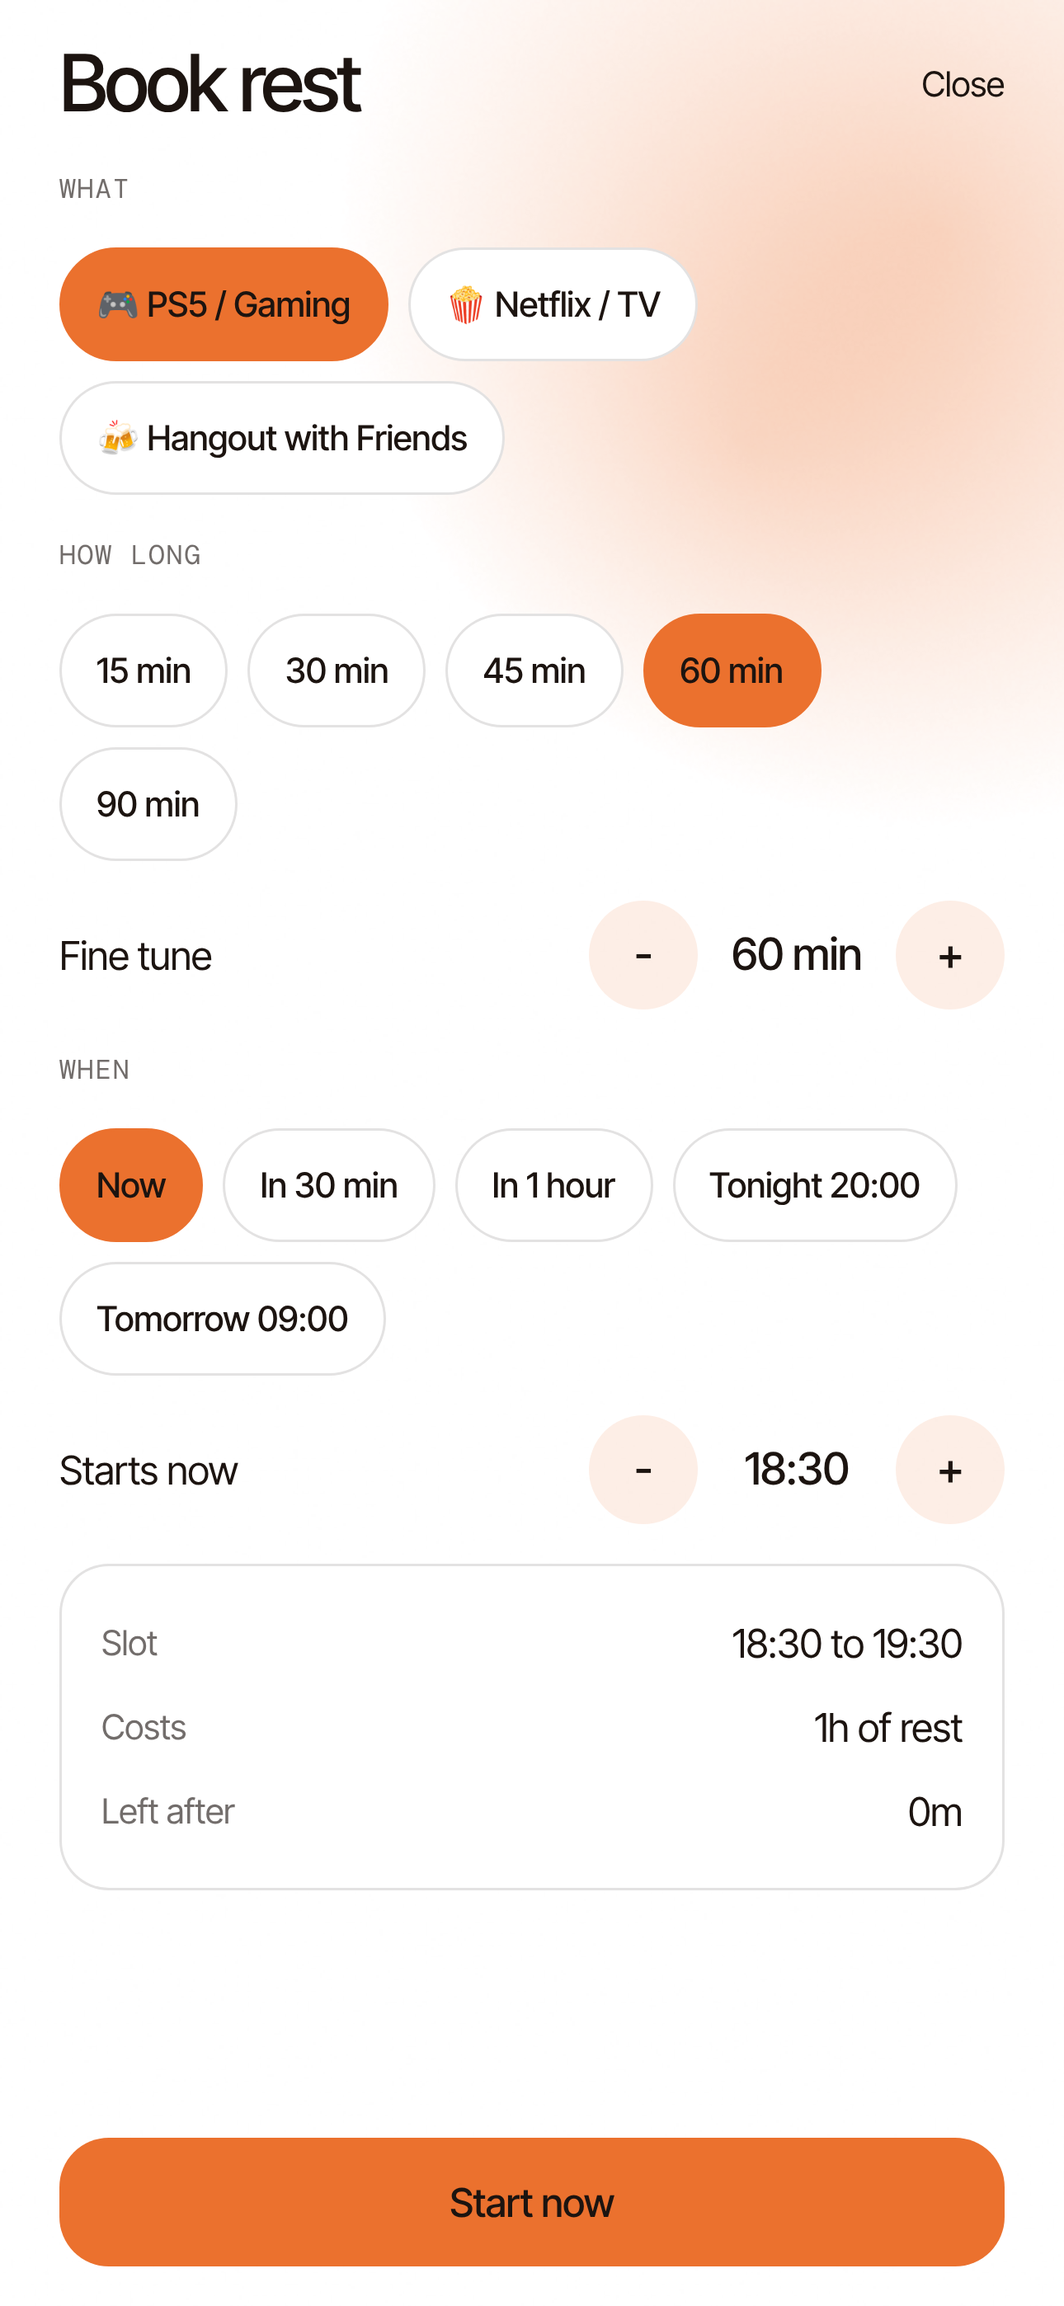
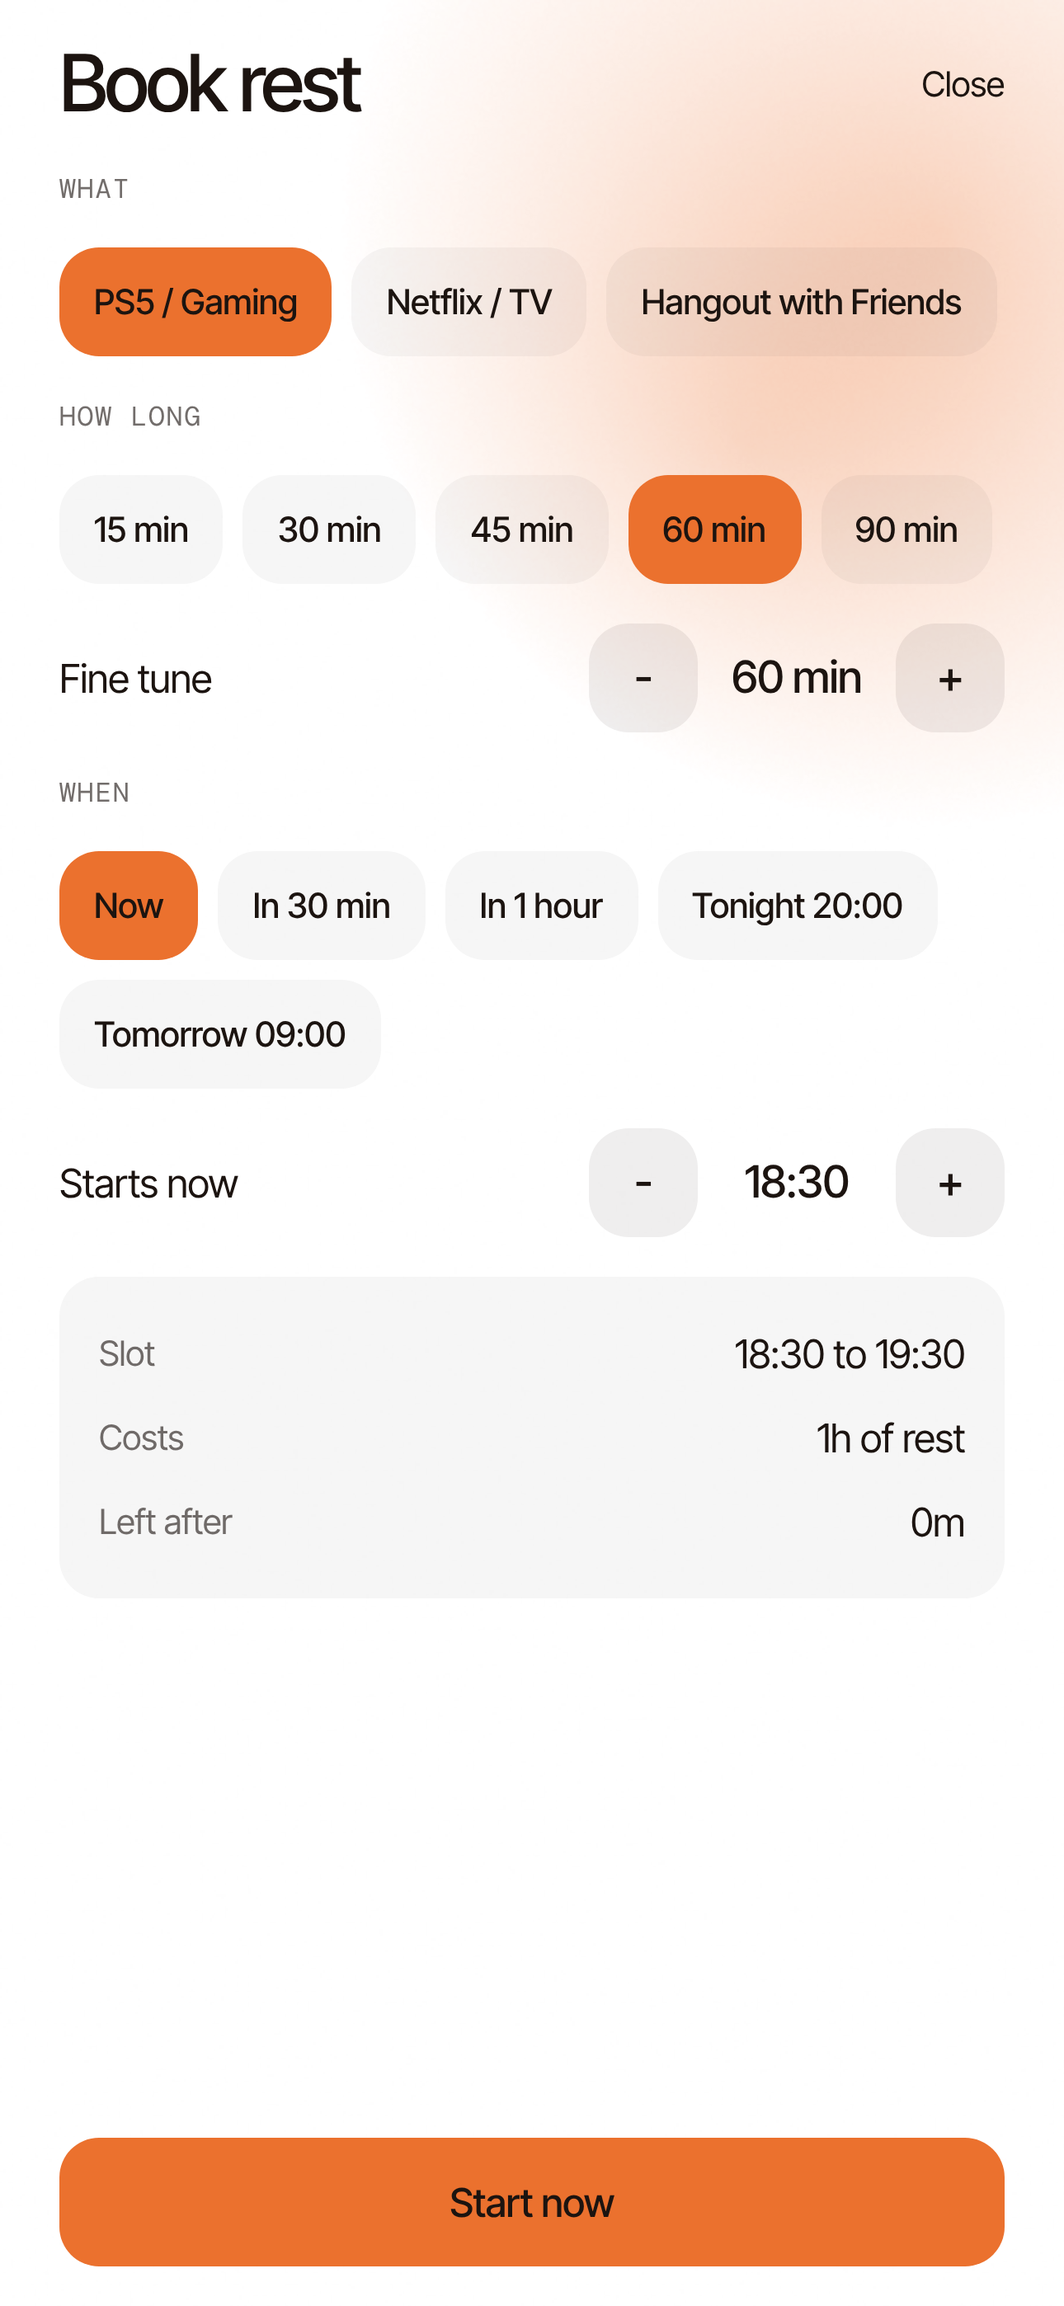
Strip the interface down to one shape, no lines, no emoji
Cards, chips, fields and buttons share a single 16 radius. Borders and divider
lines are gone: cards and chips are ink at 4%, selected states are a faint
orange fill. Activity emoji are no longer shown or asked for; moments use an
orange dot, and the new-moment card an orange orb. Tests and store screenshots
follow.

Claude-Session: https://claude.ai/code/session_019ffQuZEKGA3GPgQN2MLQP2

diff --git a/e2e/smoke.spec.ts b/e2e/smoke.spec.ts
@@ -13,11 +13,11 @@ test('onboarding needs at least two activities of each kind', async ({ page }) =
   await tap(page, 'Begin');
   await tap(page, 'Continue');
   await tap(page, 'Continue'); // now on the work step with three picked
-  await tap(page, '💻 Deep Work');
-  await tap(page, '🏋 Workout');
+  await tap(page, 'Deep Work');
+  await tap(page, 'Workout');
   await tap(page, 'Continue'); // only one left: the step must not advance
   await expect(page.getByText('What counts as work?')).toBeVisible();
-  await tap(page, '🚀 Side Project');
+  await tap(page, 'Side Project');
   await tap(page, 'Continue');
   await expect(page.getByText('How do you like to rest?')).toBeVisible();
 });
@@ -142,7 +142,7 @@ test('a counter tap can be undone right away', async ({ page }) => {
   await tap(page, 'Begin');
   await tap(page, 'Continue');
   await tap(page, 'Continue');
-  await tap(page, '🍳 Cook / Chores');
+  await tap(page, 'Cook / Chores');
   for (let i = 0; i < 3; i++) await tap(page, 'Continue');
   await tap(page, 'Start');
   await tap(page, '+1');
@@ -175,7 +175,7 @@ test('history lets you fix an entry and the bank follows', async ({ page }) => {
   await logDeepWork(page, 120); // 60 saved
   await tap(page, 'History');
   await expect(page.getByText('Work 2h, rest 0m')).toBeVisible();
-  for (let i = 0; i < 6; i++) await page.getByLabel('Decrease 💻 Deep Work').click();
+  for (let i = 0; i < 6; i++) await page.getByLabel('Decrease Deep Work').click();
   await expect(page.getByText('Work 1h 30m, rest 0m')).toBeVisible();
   await tap(page, 'Done');
   await expect(page.getByText('Today earned 45m, spent 0m.')).toBeVisible();
@@ -320,16 +320,15 @@ test('onboarding lets you add your own activity and remove it again', async ({ p
   await tap(page, 'Continue'); // work step
   await page.getByLabel('Your own work activity').fill('Writing');
   await page.getByRole('button', { name: 'Add', exact: true }).click();
-  await expect(page.getByText('🔥 Writing', { exact: true })).toBeVisible();
+  await expect(page.getByText('Writing', { exact: true })).toBeVisible();
   await expect(page.getByText('4 selected. Tap a custom one to remove it.')).toBeVisible();
   await expect(page.getByLabel('Your own work activity')).toHaveValue('');
-  await tap(page, '🔥 Writing');
-  await expect(page.getByText('🔥 Writing', { exact: true })).toHaveCount(0);
+  await tap(page, 'Writing');
+  await expect(page.getByText('Writing', { exact: true })).toHaveCount(0);
   await tap(page, 'Continue'); // rest step
   await page.getByLabel('Your own way to rest').fill('Bath');
-  await page.getByLabel('Emoji').fill('🛁');
   await page.getByRole('button', { name: 'Add', exact: true }).click();
-  await expect(page.getByText('🛁 Bath', { exact: true })).toBeVisible();
+  await expect(page.getByText('Bath', { exact: true })).toBeVisible();
 });
 
 test('activities can be added in Settings, and a duplicate name is refused', async ({ page }) => {

diff --git a/src/app/history.tsx b/src/app/history.tsx
@@ -50,12 +50,12 @@ export default function History() {
               accessible
               accessibilityLabel={m.earned ? `${m.title}. ${m.line}` : 'Not yet'}
             >
-              <AppText variant="display" color={m.earned ? undefined : colors.border} style={styles.momentEmoji}>
-                {m.earned ? m.emoji : '·'}
-              </AppText>
-              <AppText variant="small" numberOfLines={2} style={styles.momentTitle}>
-                {m.earned ? m.title : 'Not yet'}
-              </AppText>
+              <View style={[styles.dot, m.earned ? styles.dotOn : null]} />
+              {m.earned ? (
+                <AppText variant="small" color={colors.text} numberOfLines={2} style={styles.momentTitle}>
+                  {m.title}
+                </AppText>
+              ) : null}
             </View>
           ))}
         </View>
@@ -124,7 +124,7 @@ function DayCard({
       {day.tomorrowFirst ? <AppText variant="small">Note: {day.tomorrowFirst}</AppText> : null}
       {day.entries.map((e) => {
         const counter = e.habit.valueType === 'counter';
-        const label = `${e.habit.emoji} ${e.habit.name}`;
+        const label = e.habit.name;
         return (
           <Stepper
             key={`${e.kind}-${e.habit.id}`}
@@ -141,7 +141,7 @@ function DayCard({
           {addable.map((h) => (
             <Chip
               key={h.id}
-              label={`${h.emoji} ${h.name}`}
+              label={`${h.name}`}
               tint={h.type === 'grind' ? colors.grind : colors.glow}
               selected={false}
               onPress={() => {
@@ -159,8 +159,9 @@ function DayCard({
 const styles = StyleSheet.create({
   day: { gap: space.md },
   moments: { flexDirection: 'row', flexWrap: 'wrap', gap: space.sm, marginVertical: space.sm },
-  moment: { width: '31%', alignItems: 'center', gap: 2, paddingVertical: space.sm, paddingHorizontal: 4, borderRadius: radius.sm, backgroundColor: colors.surfaceHigh },
-  locked: { backgroundColor: 'transparent', borderWidth: 1, borderColor: colors.border, borderStyle: 'dashed' },
-  momentEmoji: { fontSize: 30, lineHeight: 38, letterSpacing: 0 },
-  momentTitle: { textAlign: 'center' },
+  moment: { width: '31%', minHeight: 72, alignItems: 'flex-start', gap: space.sm, padding: space.md, borderRadius: radius.sm, backgroundColor: colors.accentSoft },
+  locked: { backgroundColor: colors.surface },
+  dot: { width: 14, height: 14, borderRadius: 7, backgroundColor: colors.surfaceHigh },
+  dotOn: { backgroundColor: colors.grind },
+  momentTitle: { textAlign: 'left' },
 });

diff --git a/src/ui/AddActivity.tsx b/src/ui/AddActivity.tsx
@@ -9,27 +9,17 @@ interface Props {
   onAdd: (name: string, emoji: string) => boolean | void;
 }
 
-// One emoji box, one name box, one Add button. Used when picking activities at the start and in Settings.
+// One name box, one Add button. Used when picking activities at the start and in Settings.
 export function AddActivity({ placeholder, onAdd }: Props) {
   const [name, setName] = useState('');
-  const [emoji, setEmoji] = useState('');
   const ok = name.trim().length > 0;
   const submit = () => {
     if (!ok) return;
-    if (onAdd(name.trim(), emoji.trim()) === false) return;
+    if (onAdd(name.trim(), '') === false) return;
     setName('');
-    setEmoji('');
   };
   return (
     <View style={styles.row}>
-      <TextInput
-        value={emoji}
-        onChangeText={(t) => setEmoji(Array.from(t).slice(0, 2).join(''))}
-        placeholder="🙂"
-        placeholderTextColor={colors.muted}
-        style={[styles.input, styles.emoji]}
-        accessibilityLabel="Emoji"
-      />
       <TextInput
         value={name}
         onChangeText={setName}
@@ -55,14 +45,11 @@ const styles = StyleSheet.create({
   input: {
     height: 48,
     borderRadius: radius.sm,
-    backgroundColor: colors.surface,
-    borderWidth: 1,
-    borderColor: colors.border,
+    backgroundColor: colors.surfaceHigh,
     color: colors.text,
     paddingHorizontal: 12,
     fontSize: 16,
   },
-  emoji: { width: 56, textAlign: 'center' },
   name: { flex: 1, minWidth: 0 },
   add: { height: 48, paddingHorizontal: 16, borderRadius: radius.sm, backgroundColor: colors.grind, justifyContent: 'center' },
   off: { opacity: 0.35 },

diff --git a/src/ui/onboarding/ActivitiesStep.tsx b/src/ui/onboarding/ActivitiesStep.tsx
@@ -10,7 +10,6 @@ interface Props {
   intro: string;
   catalog: CatalogItem[];
   tint: string;
-  fallbackEmoji: string; // for a custom activity added without one
   addPlaceholder: string;
   chosen: string[];
   custom: CustomActivity[];
@@ -19,7 +18,7 @@ interface Props {
 }
 
 // The same step for work and for rest: pick from the catalogue, add your own, tap an own one to remove it.
-export function ActivitiesStep({ title, intro, catalog, tint, fallbackEmoji, addPlaceholder, chosen, custom, onChosen, onCustom }: Props) {
+export function ActivitiesStep({ title, intro, catalog, tint, addPlaceholder, chosen, custom, onChosen, onCustom }: Props) {
   const toggle = (id: string) => onChosen(chosen.includes(id) ? chosen.filter((x) => x !== id) : [...chosen, id]);
   return (
     <View style={styles.block}>
@@ -27,12 +26,12 @@ export function ActivitiesStep({ title, intro, catalog, tint, fallbackEmoji, add
       <AppText variant="small">{intro}</AppText>
       <Row>
         {catalog.map((i) => (
-          <Chip key={i.id} label={`${i.emoji} ${i.name}`} tint={tint} selected={chosen.includes(i.id)} onPress={() => toggle(i.id)} />
+          <Chip key={i.id} label={`${i.name}`} tint={tint} selected={chosen.includes(i.id)} onPress={() => toggle(i.id)} />
         ))}
         {custom.map((c, idx) => (
           <Chip
             key={`custom${idx}`}
-            label={`${c.emoji || fallbackEmoji} ${c.name}`}
+            label={`${c.name}`}
             tint={tint}
             selected
             onPress={() => onCustom(custom.filter((_, k) => k !== idx))}

diff --git a/src/ui/today/WeekCard.tsx b/src/ui/today/WeekCard.tsx
@@ -1,6 +1,6 @@
 import { StyleSheet, View } from 'react-native';
 import { RestPace, WeekDay } from '@/core';
-import { colors, fonts, radius, space } from '@/theme';
+import { colors, fonts, space } from '@/theme';
 import { Card } from '@/ui/Card';
 import { fmtMins } from '@/ui/format';
 import { AppText } from '@/ui/Text';
@@ -57,11 +57,11 @@ export function WeekCard({ week, streak, goal, doneSlots, pace, onHistory }: Pro
 const styles = StyleSheet.create({
   bars: { flexDirection: 'row', justifyContent: 'space-between', gap: 6, height: 84, marginBottom: space.sm },
   col: { flex: 1, alignItems: 'center', gap: 4 },
-  track: { flex: 1, width: '100%', justifyContent: 'flex-end', backgroundColor: colors.surfaceHigh, borderRadius: radius.sm, overflow: 'hidden', borderWidth: 1, borderColor: 'transparent' },
-  trackToday: { borderColor: colors.muted },
-  trackFuture: { backgroundColor: 'transparent', borderColor: colors.border, borderStyle: 'dashed' },
+  track: { flex: 1, width: '100%', justifyContent: 'flex-end', backgroundColor: colors.surfaceHigh, borderRadius: 8, overflow: 'hidden' },
+  trackToday: { backgroundColor: colors.accentSoft },
+  trackFuture: { backgroundColor: colors.surface },
   bar: { width: '100%', backgroundColor: colors.good },
-  empty: { backgroundColor: colors.border },
+  empty: { backgroundColor: colors.surfaceHigh },
   todayLabel: { fontFamily: fonts.medium },
   history: { alignSelf: 'flex-start', marginTop: space.sm },
 });

diff --git a/src/app/focus.tsx b/src/app/focus.tsx
@@ -77,7 +77,7 @@ export default function Focus() {
           <AppText variant="label">Rest earned</AppText>
           <Prize earned={result.earned} seed={result.minutes} />
           <AppText variant="small">
-            {habit.emoji} {habit.name}, {fmtMins(result.minutes)}
+            {habit.name}, {fmtMins(result.minutes)}
           </AppText>
         </Card>
       </Screen>
@@ -120,7 +120,7 @@ export default function Focus() {
         <ModalHeader title="Focus" onClose={() => router.back()} />
         <View style={styles.center}>
           <AppText variant="small">
-            {habit.emoji} {habit.name}
+            {habit.name}
           </AppText>
           <AppText variant="display" style={styles.timer}>
             {fmtTimer(elapsedSec)}
@@ -164,13 +164,13 @@ export default function Focus() {
       <ModalHeader title="Focus" />
       <Card>
         <AppText variant="heading">
-          {habit.emoji} {habit.name}
+          {habit.name}
         </AppText>
         <AppText variant="small">Every hour here earns {Math.round(rate * 60)} min of rest.</AppText>
       </Card>
       {otherRunning ? (
         <AppText variant="small" color={colors.grindText}>
-          {otherRunning.emoji} {otherRunning.name} is still running. Finish it first.
+          {otherRunning.name} is still running. Finish it first.
         </AppText>
       ) : null}
       <AppText variant="label">Goal</AppText>

diff --git a/src/ui/Card.tsx b/src/ui/Card.tsx
@@ -7,12 +7,12 @@ interface Props {
   onPress?: () => void;
   hero?: boolean; // the deep orange variant, for the one thing that matters on a screen
   selected?: boolean;
-  tint?: string; // border color when selected
+  tint?: string; // unused; kept so callers need no change
   style?: ViewStyle;
 }
 
-export function Card({ children, onPress, hero, selected, tint = colors.text, style }: Props) {
-  const box = [styles.card, hero ? styles.hero : null, selected ? { borderColor: tint } : null, style];
+export function Card({ children, onPress, hero, selected, style }: Props) {
+  const box = [styles.card, hero ? styles.hero : null, selected ? styles.selected : null, style];
   const inner = hero ? (
     <>
       <Image source={require('../../assets/images/hero.png')} resizeMode="stretch" style={styles.heroImage} />
@@ -34,11 +34,10 @@ const styles = StyleSheet.create({
     backgroundColor: colors.surface,
     borderRadius: radius.md,
     padding: space.lg,
-    borderWidth: 1,
-    borderColor: colors.border,
     gap: space.xs,
   },
-  hero: { backgroundColor: '#d12d20', borderColor: 'transparent', overflow: 'hidden' },
+  hero: { backgroundColor: '#d12d20', overflow: 'hidden' },
+  selected: { backgroundColor: colors.accentSoft },
   heroImage: { position: 'absolute', top: 0, left: 0, width: '100%', height: '100%' },
   pressed: { opacity: 0.85 },
 });

diff --git a/src/ui/NewMoment.tsx b/src/ui/NewMoment.tsx
@@ -25,23 +25,21 @@ export function NewMoment({ moment, more, onSeen }: Props) {
   return (
     <Card style={styles.card}>
       <View style={styles.row}>
-        <Animated.Text style={[styles.emoji, { transform: [{ scale: pop }] }]} accessibilityElementsHidden>
-          {moment.emoji}
-        </Animated.Text>
+        <Animated.View style={[styles.orb, { transform: [{ scale: pop }] }]} accessibilityElementsHidden />
         <View style={styles.text}>
           <AppText variant="label">New moment{more > 0 ? `, ${more} more waiting` : ''}</AppText>
           <AppText variant="heading">{moment.title}</AppText>
           <AppText variant="small">{moment.line}</AppText>
         </View>
       </View>
-      <Button small kind="secondary" title="Nice" onPress={onSeen} />
+      <Button small title="Nice" onPress={onSeen} />
     </Card>
   );
 }
 
 const styles = StyleSheet.create({
-  card: { borderColor: colors.grind, gap: space.md },
+  card: { backgroundColor: colors.accentSoft, gap: space.md },
   row: { flexDirection: 'row', alignItems: 'center', gap: space.lg },
-  emoji: { fontSize: 44 },
+  orb: { width: 44, height: 44, borderRadius: 22, backgroundColor: colors.grind },
   text: { flex: 1, gap: 2 },
 });

diff --git a/src/theme.ts b/src/theme.ts
@@ -3,8 +3,9 @@
 // scripts/make-images.py draws the icon, the orb, the hero gradient and the status bar fade from these colors; run it after changing them.
 export const colors = {
   bg: '#ffffff',
-  surface: '#ffffff', // cards: white with a thin ink line
-  surfaceHigh: 'rgba(235, 113, 46, 0.12)', // orange, faint
+  surface: 'rgba(28, 20, 16, 0.04)', // cards and chips: ink, barely there. No lines anywhere.
+  surfaceHigh: 'rgba(28, 20, 16, 0.07)', // what sits on a card
+  accentSoft: 'rgba(235, 113, 46, 0.12)', // orange, faint: selected and highlighted
   border: 'rgba(28, 20, 16, 0.12)',
   text: '#1c1410', // ink
   muted: 'rgba(28, 20, 16, 0.62)',
@@ -21,7 +22,8 @@ export const colors = {
   heroButtonText: '#d12d20',
 } as const;
 
-export const radius = { sm: 10, md: 20, pill: 9999 } as const;
+// One shape for everything: cards, buttons, chips, fields.
+export const radius = { sm: 16, md: 16, pill: 16 } as const;
 export const space = { xs: 4, sm: 8, md: 12, lg: 16, xl: 24, xxl: 32 } as const;
 
 // Type: Inter Tight (a tight grotesque) for everything, light for the big figures, and DM Mono for the small labels.

diff --git a/src/app/index.tsx b/src/app/index.tsx
@@ -161,7 +161,7 @@ export default function Today() {
         <Card onPress={() => router.push({ pathname: '/slot/[id]', params: { id: next.id } })} selected tint={colors.glow}>
           <AppText variant="label">{next.state === 'active' ? 'Resting now' : 'Next rest'}</AppText>
           <AppText variant="heading">
-            {nextHabit.emoji} {nextHabit.name}
+            {nextHabit.name}
           </AppText>
           <AppText variant="small">
             {dayWord(new Date(next.startsAt), now)} {fmtClock(new Date(next.startsAt))}, {next.plannedMins} min
@@ -173,7 +173,7 @@ export default function Today() {
         <Card onPress={() => router.push({ pathname: '/focus', params: { habitId: focus.habitId } })} selected tint={colors.grind}>
           <AppText variant="label">Focus running</AppText>
           <AppText variant="heading">
-            {focusHabit.emoji} {focusHabit.name}
+            {focusHabit.name}
           </AppText>
           <AppText variant="small">Tap to open the timer.</AppText>
         </Card>

diff --git a/src/app/log-rest.tsx b/src/app/log-rest.tsx
@@ -52,7 +52,7 @@ export default function LogRest() {
         <ModalHeader title="Logged" onClose={() => router.back()} />
         <Card>
           <AppText variant="heading">
-            {h?.emoji} {h?.name}, {fmtMins(done.mins)}
+            {h?.name}, {fmtMins(done.mins)}
           </AppText>
           <AppText variant="body">{fmtMins(done.charged)} came out of your bank.</AppText>
           <AppText variant="small">Next time you can book it first. Either way, it is now on record.</AppText>
@@ -84,7 +84,7 @@ export default function LogRest() {
       <AppText variant="label">What</AppText>
       <Row>
         {rest.map((h) => (
-          <Chip key={h.id} label={`${h.emoji} ${h.name}`} tint={colors.glow} selected={h.id === habitId} onPress={() => setHabitId(h.id)} />
+          <Chip key={h.id} label={`${h.name}`} tint={colors.glow} selected={h.id === habitId} onPress={() => setHabitId(h.id)} />
         ))}
       </Row>
       <AppText variant="label">How long</AppText>

diff --git a/src/ui/controls.tsx b/src/ui/controls.tsx
@@ -15,7 +15,7 @@ export function Chip({ label, selected, onPress, tint = colors.grind }: ChipProp
       accessibilityRole="button"
       aria-selected={selected}
       onPress={onPress}
-      style={[styles.chip, selected ? { backgroundColor: tint, borderColor: tint } : null]}
+      style={[styles.chip, selected ? { backgroundColor: tint } : null]}
     >
       <AppText variant="small" color={selected ? colors.onAccent : colors.text} style={styles.chipText}>
         {label}
@@ -77,8 +77,6 @@ const styles = StyleSheet.create({
     paddingHorizontal: 14,
     paddingVertical: 12,
     borderRadius: radius.pill,
-    borderWidth: 1,
-    borderColor: colors.border,
     backgroundColor: colors.surface,
   },
   chipText: { fontFamily: fonts.medium },
@@ -95,5 +93,5 @@ const styles = StyleSheet.create({
     justifyContent: 'center',
   },
   off: { opacity: 0.35 },
-  divider: { height: 1, backgroundColor: colors.border },
+  divider: { height: space.xs },
 });
